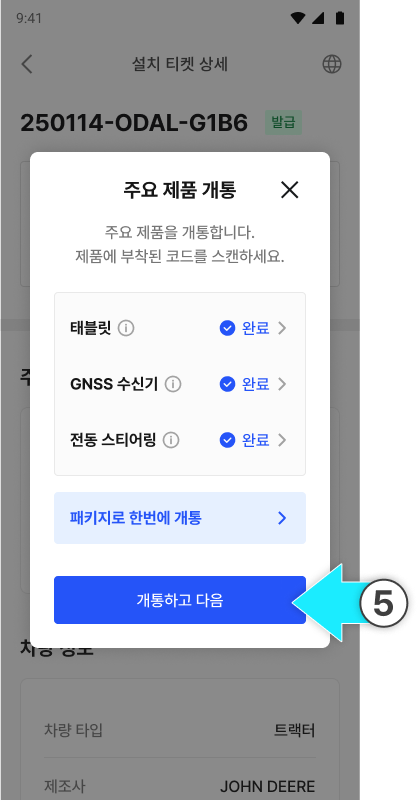
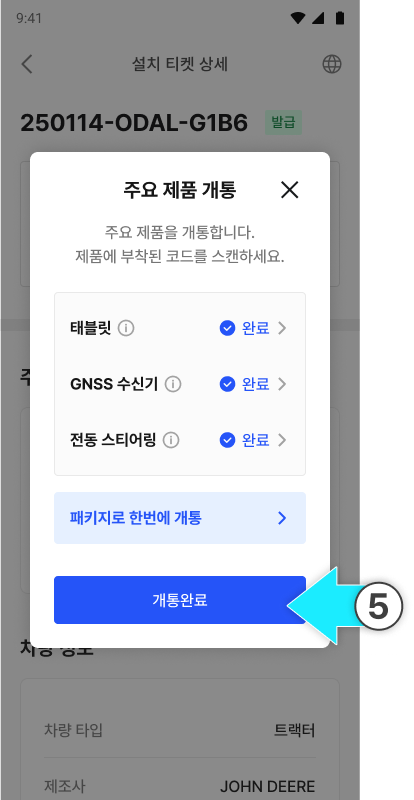
GITBOOK-117: No subject

diff --git a/ion-servicemanual-kr/order-installation/product-registration.md b/ion-servicemanual-kr/order-installation/product-registration.md
@@ -134,7 +134,7 @@ layout:
 
 {% stepper %}
 {% step %}
-어드민 페이지에 로그인합니다.
+[어드민 페이지](../others/initial-setup.md#qr-not-scanned)에 로그인합니다.
 
 <figure><img src="../.gitbook/assets/enter-ticket-1.png" alt="" width="348"><figcaption></figcaption></figure>
 {% endstep %}
@@ -164,7 +164,7 @@ layout:
 {% endstep %}
 
 {% step %}
-\[패키지로 한번에 개]을 누릅니다.
+\[패키지로 한번에 개통]을 누릅니다.
 
 <figure><img src="../.gitbook/assets/enter-ticketdetail-2.png" alt="" width="320"><figcaption></figcaption></figure>
 
@@ -192,33 +192,23 @@ layout:
 {% endstep %}
 
 {% step %}
-등록이 완료되면 제품 등록 팝업에서 \[개통하고 다음]을 누릅니다.
+등록이 완료되면 제품 등록 팝업에서 \[개통 완료]를 누릅니다.
 
-<figure><img src="../.gitbook/assets/enter-ticketdetail-5.png" alt=""><figcaption></figcaption></figure>
+<figure><img src="../.gitbook/assets/enter-ticketdetail-5.png" alt="" width="311"><figcaption></figcaption></figure>
 
 {% hint style="info" %}
 패키징 넘버(시리얼 넘버)가 유효하지 않으면 QR 스캔 화면으로 돌아갑니다.
 
+자세한 내용은 [기타 불편사항 대응 방법 → 6)QR코드가 스캔되지 않음](../others/initial-setup.md#qr-not-scanned) 항목 참고하세요.
+
 <img src="../.gitbook/assets/invalid-ticket.png" alt="" data-size="original">
 {% endhint %}
-{% endstep %}
-
-{% step %}
-추가 옵션 제품을 이어서 진행합니다. 제품 코드 스캔 과정은 주요 제품 개통 과정과 동일합니다.
-
-<figure><img src="../.gitbook/assets/enter-ticketdetail-6.png" alt="" width="270"><figcaption></figcaption></figure>
 
 {% hint style="info" %}
-주문 작성시 추가 옵션을 선택하지 않았다면 바로 개통을 완료할 수 있습니다.
+추가 옵션을 주문할 경우 주요 제품 개통 이후 추가 옵션 개통을 진행해야 개통이 완료됩니다.
 
-<img src="../.gitbook/assets/none option.png" alt="" data-size="original">
+<img src="../.gitbook/assets/addoption.png" alt="" data-size="original">
 {% endhint %}
-{% endstep %}
-
-{% step %}
-스캔 등록이 완료되면 \[개통 완료]를 누릅니다.
-
-<figure><img src="../.gitbook/assets/enter-ticketdetail-7.png" alt="" width="314"><figcaption></figcaption></figure>
 {% endstep %}
 
 {% step %}

diff --git a/ion-servicemanual-kr/order-installation/quick-setup/add-vehicle.md b/ion-servicemanual-kr/order-installation/quick-setup/add-vehicle.md
@@ -104,16 +104,16 @@
 
 &#x20;![](../../.gitbook/assets/icon-square-1-1.svg) 휠베이스
 
-* 이앙기의 앞바퀴 중심과 뒷바퀴 중심 간의 거리입니다.
+* 관리의 앞바퀴 중심과 뒷바퀴 중심 간의 거리입니다.
 
 &#x20;![](../../.gitbook/assets/icon-square-2.svg) 후륜 축-차량 끝
 
-* 이앙기의 후륜 축 중심에서 차량 끝까지의 수평 거리입니다.
+* 관리기의 후륜 축 중심에서 차량 끝까지의 수평 거리입니다.
 * ![](../../.gitbook/assets/add-manager-dimensions-2.png)
 
-&#x20;![](../../.gitbook/assets/icon-square-3-3.svg) 이앙기 폭
+&#x20;![](../../.gitbook/assets/icon-square-3-3.svg) 관리기 폭
 
-* 이앙기의 폭을 의미하며 타이어 너비를 포함합니다.
+* 관리기의 폭을 의미하며 타이어 너비를 포함합니다.
 * ![](../../.gitbook/assets/add-manager-dimensions-3.png)
 
 &#x20;![](../../.gitbook/assets/icon-square-4-4.svg) 간격 편차

diff --git a/ion-servicemanual-kr/order-installation/order-registration.md b/ion-servicemanual-kr/order-installation/order-registration.md
@@ -4,6 +4,8 @@
 
 주문의 기본 정보를 작성합니다. 주문 제품, 설치할 차량, 방문 정보를 입력하면 설치티켓이 자동 생성되며, 설치에 필요한 사항들을 미리 확인하고 준비할 수 있습니다.
 
+주문 목록 항목은 [PLUVA iON 어드민 ](../others/initial-setup.md#qr-not-scanned)페이지에서 로그인한 후 진입할 수 있습니다.
+
 
 
 {% stepper %}

diff --git a/ion-servicemanual-kr/order-installation/quick-setup/add-worker.md b/ion-servicemanual-kr/order-installation/quick-setup/add-worker.md
@@ -34,7 +34,7 @@
 
 #### 작업기 치수 항목 설명
 
-<figure><img src="../../.gitbook/assets/add-leeangi-dimensions (1).png" alt="" width="281"><figcaption></figcaption></figure>
+<figure><img src="../../.gitbook/assets/add-worker-dimensions.png" alt="" width="275"><figcaption></figcaption></figure>
 
 ![](../../.gitbook/assets/icon-square-1-1.svg) **작업기 너비**
 

diff --git a/ion-servicemanual-kr/README.md b/ion-servicemanual-kr/README.md
@@ -26,6 +26,14 @@ metaLinks:
 
 
 
+### 영상 가이드 <a href="#guide" id="guide"></a>
+
+메뉴얼 정보를 간략하게 볼 수 있도록 영상 가이드를 제공합니다. 아래 영상 가이드를 통해 빠르게 내용을 확인합니다.
+
+{% embed url="https://youtu.be/cfwbHk-JCko" %}
+
+
+
 ### 목차
 
 <details>

diff --git a/ion-servicemanual-kr/others/initial-setup.md b/ion-servicemanual-kr/others/initial-setup.md
@@ -52,7 +52,7 @@
 * **조치 방법:**
   1. 제품별 QR코드 스캔<br>
 
-#### 6) QR코드가 스캔되지 않음
+#### 6) QR코드가 스캔되지 않음 <a href="#qr-not-scanned" id="qr-not-scanned"></a>
 
 * **원인:**
   1. QR코드와 거리가 멀어 인식 불량
